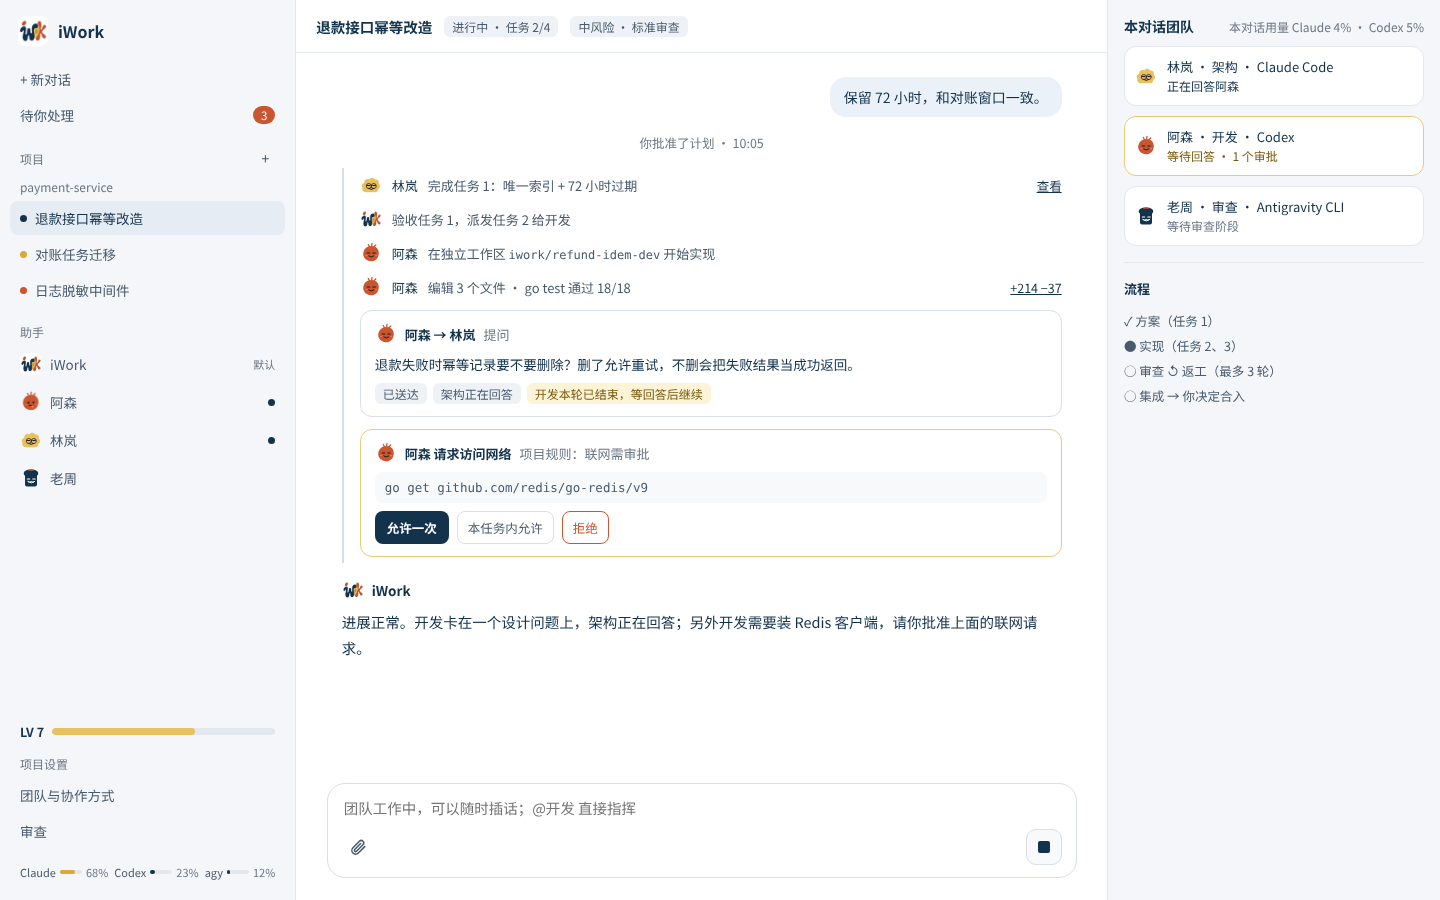
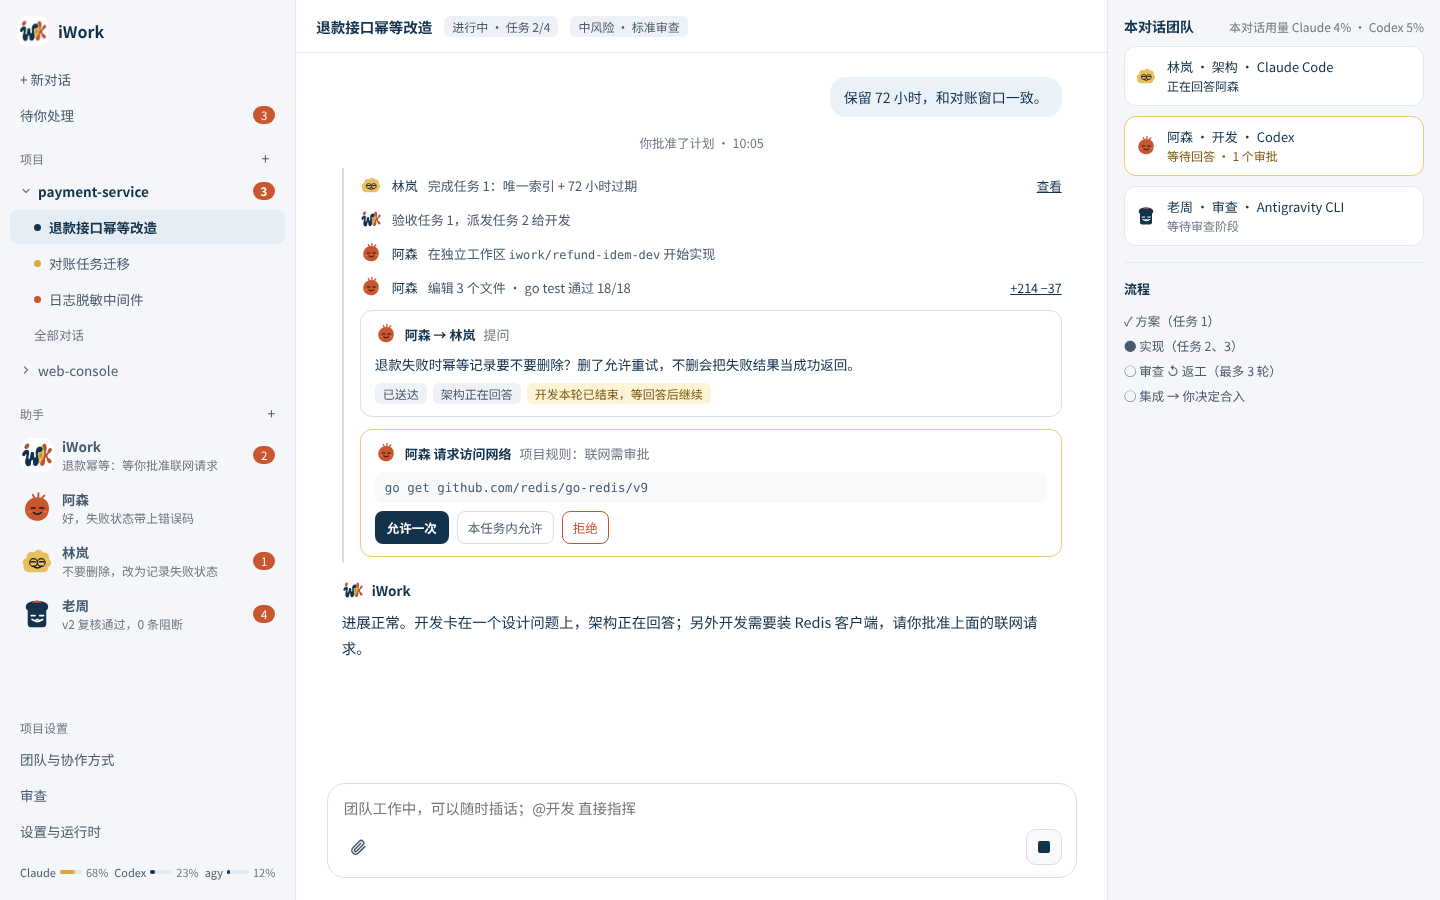
Design: commit design-window decisions and assets (ui-m1 2a items 1-13, anchors, sidebar 296px, sorry mood, M2 forward canvases)
Design-window edits that had been kept in the working tree: ui-m1.md section 2/2a
(through item 13), canvases ui/*.png including 16-Anchor-* and 17-Forward-* (M2),
design-system tokens (--sidebar-w 296px) and the new *-sorry.svg characters.
Committed by the supervisor at the product owner's request (2026-11-11).

Changed region(s): [[0.0, 0.1867, 0.1875, 0.7156], [0.0, 0.8089, 0.125, 0.9333], [0.1562, 0.1867, 0.1875, 0.2178]]

diff --git a/docs/design/design-system/tokens.css b/docs/design/design-system/tokens.css
@@ -194,7 +194,7 @@
   --shadow-tip: 0 12px 30px rgba(0,0,0,.18);
   --shadow-dialog: 0 20px 50px rgba(0,0,0,.2);
 
-  --sidebar-w: 264px;
+  --sidebar-w: 296px;     /* 侧栏外宽（含内边距与右边框，box-sizing: border-box），与画布截图一致 */
   --content-max: 720px;   /* 对话内容列 */
   --composer-max: 760px;  /* 输入框 */
 }

diff --git a/docs/design/ui-m1.md b/docs/design/ui-m1.md
@@ -9,7 +9,7 @@
 | 截图 | 页面 | M1 实现范围 |
 | --- | --- | --- |
 | `00-Onboarding.png` | 首次使用 / 设置与运行时 | 选项目、检测 Claude Code（路径、版本、登录状态）、确认默认运行时；Codex、agy 显示“M2 接入” |
-| `01-Main.png`、`01-Main-dark.png`、`01-Main-modelmenu.png` | 项目首页（新对话） | 全部：侧栏、输入框、附件、运行时与模型菜单（第 2 节第 14 条）；“团队 N”入口 M1 隐藏（单成员） |
+| `01-Main.png`、`01-Main-dark.png`、`01-Main-modelmenu.png`、`01-Main-convmenu.png` | 项目首页（新对话） | 全部：侧栏（第 2 节第 3 条，含对话右键菜单）、输入框、附件、运行时与模型菜单（第 2 节第 14 条）；“团队 N”入口 M1 隐藏（单成员） |
 | `02-Plan.png` | 分诊与计划卡片 | M1 不做（计划卡片移到 M2），只作视觉参考 |
 | `04-Member.png` | 对话中的流式输出、工具活动 | 对话主体的消息、工具活动折叠、Diff 摘要；成员切换不做 |
 | `07-AddProject.png`、`07-AddProject-new.png` | 添加项目 | 全部：本机文件夹、Git 克隆（含进度与失败重试）、新建项目（项目名 + 位置，默认 `~/iWork/projects/<名称>`，可更换）、拖入、未初始化提示与一键初始化、AGENTS.md 草稿卡片；全局设置里提供“项目位置”（默认父目录） |
@@ -18,15 +18,25 @@
 | `12-ImportLocal-first.png`、`12-ImportLocal-settings.png` | 本机导入（已确认） | 首次接入运行时的导入弹窗：按 MCP / 技能 / 插件分组勾选、需要密钥的 MCP 就地填写；设置 › 运行时 的“从本机导入”入口与已导入摘要 |
 | `13-AssistantConfig.png`、`13-AssistantConfig-new.png`、`13-AssistantConfig-menu.png` | 助手配置与新建（已确认） | 助手主页“配置”页：头像配色、名字、提示词、运行时 / 模型 / 思考强度、工具开关，修改即时自动保存；侧栏“助手 +”打开新建弹窗；右键助手弹出菜单（打开对话 / 配置 / 删除，iWork 无删除） |
 | `15-UserAction-pending.png`、`-done`、`-ignored`、`-credattach`、`-keyrefused`、`-dark` | 亲手执行卡片与凭据附件（已确认，画布第 14 页） | 全部：系统底线拦下时的亲手执行卡片（执行 / 复制命令 / 忽略，执行后显示退出码与只给你看的输出）、附加凭据文件的确认框、附加私钥被拒的提示 |
+| `16-Anchor-rest.png`、`16-Anchor-open.png`、`16-Anchor-open-dark.png` | 消息锚点（已确认，画布“消息锚点 · 滚轮形式”一行：W3 静止、W2 展开） | 全部：对话区左边距的静止态与刻度滚轮展开态、信息卡；交互见第 2a 节第 11 条 |
 | `09-Role.png` | 助手私聊 | 全部：连续长对话、项目选择器（M1 列出全部项目 + “私聊”，M2 起只列加入的项目）、切换分隔线、右侧资料（动态 / 记忆 / 配置；记忆 M1 只读展示；配置 M1 可编辑名字、头像、提示词、运行时、工具开关）、未读数 |
 
 `03-Board.png`（团队执行；其中的审批卡片与“本对话用量”标签是 M1 要做的，按下文第 2 节的规则更新选项）、`05-Review.png`（审查与合入）、`06-Ledger.png`（审查台账）、`08-Team.png`（团队与协作方式）属于 M2 以后，M1 只作视觉参考，不实现。
+
+**M2 预先定稿（M1 不实现）**：引用与转发（需求 FR03，v1.79；画布“引用与转发（M2）”一行与“消息操作 · 更沉浸的几种变体”中的 H1）。截图 `17-Forward-panel.png`（悬停时消息末尾淡入一行淡色图标：复制 / 引用 / 转发，无底框、无阴影、消息不加底色；点转发弹出转发面板）、`17-Forward-composer.png`（转发卡片先放进目标对话的输入框，补一句再发）、`17-Forward-sent-quote.png`（发出后的转发卡片；同一对话里的引用条与引用块）。
 
 ## 2 跨页面规则（已确认，实现时不得改动）
 
 1. 界面任何位置都不出现“主管”二字；对用户它叫 **iWork**，在助手列表里排第一并标“默认”。
 2. 角色在界面上统称“助手”；侧栏有“助手”分区，每个助手有名字与头像（字头像），点进去默认是与它的对话。
-3. 侧栏结构：iWork 标志 → “+ 新对话” → “待你处理”（计数）→ 项目分区（标题右侧图标按钮“+”添加项目；项目按最近活动排序，可置顶）→ 助手分区 → 底部固定：项目设置入口与本机额度一行。
+3. 侧栏结构（2026-11-10 统一，全部 M1 画板同一版；画布第 1–5、8–11、13、14 页）：iWork 标志 → “+ 新对话” → “待你处理”（计数）→ 项目分区 → 助手分区 → 底部固定：项目设置入口（团队与协作方式 / 审查 / 设置与运行时；M1 只显示“设置与运行时”，见 2a 第 4 条）与本机额度一行。
+   - **项目**：标题右侧图标按钮“+”添加项目。每个项目一行（展开箭头 + 项目名 + 未读数，未读数为该项目下全部对话之和），按最近活动排序，可置顶。当前项目默认展开，其余收起；点箭头可展开或收起任一项目，展开状态按项目记住。
+   - **项目下的对话**：展开后列出最近 5 个对话（状态圆点 + 标题，缩进一级），末尾一行“全部对话”打开该项目的完整对话列表。对话有成员子对话时（如“架构 / 开发 / 审查”），在当前对话下再缩进一级列出。
+   - **对话右键菜单**：打开 / 重命名 / 删除（删除见技术设计 9.0、T09 3g；重命名为就地编辑，见 9.0a、T09 3h）。见 `ui/01-Main-convmenu.png`。
+   - **对话标题**：项目对话取首条消息前 20 字（超出加“…”），发出首条前显示“新对话”，不用 AI 生成；重命名后不再自动变化。助手私聊标题为助手名，成员子对话为角色名，都不能重命名。
+   - **找不到路径的项目**：项目名划线，带“找不到路径”标签与“重新定位”（FR19，见画布第 9 页）。
+   - **助手**：每个助手两行：头像 + 名字，下面一行是它最近一条动态（截断），右侧未读数。右键菜单：打开对话 / 配置 / 删除（iWork 无删除，见第 13 页）。
+   - 侧栏数据来自“侧栏摘要”订阅（技术设计 3.5 节 Subscribe）：项目未读数、展开项目的最近对话、每个助手的最近动态与未读数。
 4. **未读数**只统计“发给用户的消息”和“待处理卡片”（审批、计划确认等）；打开对话即清零。侧栏以数字徽标显示。
 5. **本机额度**：侧栏底部一行，每个运行时一个“名称 + 细进度条 + 百分比”，悬停显示窗口类型与重置时间；取不到显示“—”。对话里另有“本对话用量”标签。
 6. **附件**：拖入（整块对话区显示虚线框“松开以添加”）、粘贴、回形针图标按钮三种入口；输入框上方显示缩略图或文件卡片，可移除；单个不超过 20MB，超限当场提示。仓库外文件标注“仓库外文件”。
@@ -47,6 +57,71 @@
 14. **运行时与模型**（需求 FR03、FR05，v1.49；画布第 1 页 Tweaks“运行时与模型菜单”、第 13 页）：所有对话的输入框工具栏显示“运行时 · 模型 ▾”（如“Claude Code · Opus ▾”）；菜单分三节：运行时（对话开始后置灰，悬停提示“要换运行时请开新对话”）、模型 · 仅本对话（可选列表 + “填写模型 ID…”）、思考强度（分段按钮，运行时不支持时整节不显示）。改选后对话中插入一行“已切换为 X”，不提示用量变化；“本对话用量”标签不显示模型。助手配置页与新建助手弹窗中，运行时 / 模型 / 思考强度为同一行三个下拉。
 15. **设置 › 记住的规则**（需求 FR11、v1.61；画布未画，按设置页现有样式做）：按“永久 / 本项目 / 本对话”分组列出；每行写明动作与范围（如“执行 `npm test …`”“写 `src/`”）、记在哪个助手或项目上、创建时间，右侧“撤销”图标按钮（悬停提示“撤销”）；撤销即时生效、无需确认；空列表显示“还没有记住的规则”。审批卡片“记住”下拉里写明将记住的范围（如“本项目内 `npm test …` 不再问”）。
 16. **设置 › 安全清单**（需求 FR11、v1.65）：需凭据的命令、敏感目录、可写目录三张清单的查看与增删。**界面形式待产品负责人定**（以后可能接入不同的界面）；定之前 T09 不实现这一页。能力本身在 M1 完整实现，经应用服务命令提供（技术设计 7.2c）。
+
+## 2a 设计决定（Claude 定，2026-11-10；产品负责人可推翻）
+
+以下是第 2 节没写到的界面细节，由设计窗口按现有规则补定（见 `AGENTS.md`“UI/UX 设计问题找设计窗口”）。和第 2 节冲突时以第 2 节为准。
+
+1. **对话状态圆点**（侧栏与“全部对话”列表共用；状态由 Rust 侧随侧栏摘要给出，网页层不自行判断）：
+   - 芥末黄 `--mus`：**等你处理**。有待审批、提问、亲手执行卡片，或回合已中断、等你选“继续 / 放弃”。
+   - 赭红 `--acc`：**出错**。最近一个回合失败，且没有等你处理的事。
+   - 藏青 `--brand`：**运行中**。有回合正在跑。圆点带轻微呼吸动画，系统开启“减少动态效果”或关闭轻松元素时不动。
+   - 灰 `--idle`：**空闲**。没有运行中的回合，也没有待处理的事。
+   - 同时满足多种时按 等你处理 > 出错 > 运行中 > 空闲 取一种。颜色不是唯一提示：悬停提示与 `aria-label` 写状态名（如“等你处理”）。
+   - 画布第 1 页的“日志脱敏中间件”（赭红）按“出错”理解，“登录页改版”（灰）是空闲。
+2. **助手行的“最近一条动态”**：按优先级取一条，跨这个助手参与的全部对话（私聊与项目对话）：
+   1. 有等你处理的事：`<对话标题>：<待处理摘要>`，如“退款幂等：等你批准联网请求”。私聊里的就不加对话标题。
+   2. 有回合在跑：`<对话标题>：工作中`，私聊里的写“工作中”。M1 不显示具体在做什么（风格样板页的“正在啃 handler.go”是远期参考）。
+   3. 都没有：它最近一条发给用户的消息的首行，项目对话里的加 `<对话标题>：` 前缀。
+   4. 从没说过话：不显示第二行。
+   - 摘要由 Rust 侧生成，单行截断。
+3. **助手行的未读数只算它的私聊**，项目对话的未读只算在项目行上，同一条未读不会两边各算一次。“最近一条动态”可以提到项目对话里的待处理事项，它是提示，不计数；全部待处理事项的总数看“待你处理”。
+4. **侧栏底部在 M1 只显示“设置与运行时”**：“团队与协作方式”“审查”属于 M2，M1 不显示，也不置灰；“项目设置”这个小标题也不显示。画布保留这两项，作 M2 参考。
+5. **全部对话**：
+   - 在主区域打开一个列表页，不在侧栏里展开。标题为“<项目名> · 全部对话”，侧栏不高亮任何对话。
+   - 每行显示状态圆点、标题、最近一条消息的首行、最近活动时间（今天的显示时刻，更早的显示日期）。
+   - 按最近活动倒序，顶部一个按标题筛选的输入框。
+   - 右键菜单与侧栏相同：打开 / 重命名 / 删除。
+   - 滚动到底自动加载下一批，每批 50 条（`ListConversations` 分页），不做页码。
+   - 没有对话时显示“还没有对话”，带“+ 新对话”按钮。画布未画，按设置页的列表样式做。
+6. **重命名就地编辑的边界**：
+   - 失去焦点按确认处理（与 Finder 一致）；此时内容为空则还原，不提交。
+   - 最多 50 个字符，到上限后不能再输入，不弹提示。输入法组字期间不截断，组字结束后再截。
+   - 去掉首尾空白后和原标题相同，就直接退出编辑，不发命令。
+   - Esc 取消，回车确认。
+7. **找不到路径的项目**：
+   - 项目行显示划线项目名、“找不到路径”标签与行内的“重新定位”文字按钮，见 `ui/07-AddProject.png` 侧栏。项目右键菜单里也有“重新定位”。
+   - 项目右键菜单：置顶 / 取消置顶、重新定位（只在找不到路径时出现）、从列表移除（FR19）。
+   - 展开后下面的对话可以打开、看历史。输入框禁用，上方显示一行说明“找不到项目文件夹，重新定位后才能继续”，带“重新定位”按钮。
+8. **运行时版本验证中或未通过**（T06 验收 8：状态栏不显示，只在运行时详情和诊断页标出）：只在输入框处说明，因为这里挡住了用户。
+   - **验证中**：发送按钮禁用，输入框上方一行“正在检查 Claude Code <版本> 能否安全使用…”，带小转圈。已输入的内容保留。验证通过后自动恢复可发送，不自动发出。
+   - **未通过**：发送按钮禁用，输入框上方一行警示色说明“Claude Code <版本> 没有通过安全检查，暂不能使用”，带“查看详情”链接，跳到设置 › 设置与运行时里该运行时的详情。
+   - 已经在跑的会话不受影响。
+9. **项目默认值没有界面入口**（产品负责人 2026-11-11 定，需求 v1.76）：默认审批档位、iWork 的运行时与模型、AI 审查开关与审查模型，M1 只经应用服务命令（T01 方案的 `UpdateProjectSettings`）提供修改能力，界面上不做入口：设置页没有项目一栏，侧栏底部和项目右键菜单都没有“项目设置”，输入框的档位菜单与模型菜单也不加“设为本项目默认”。这两个菜单仍然只改本对话。以后怎么改默认值不一定走界面入口，可能是问 AI 或让 AI 修改。
+10. **回合一开始就失败**（2026-11-11）：
+    - 运行时没能开始这一轮、助手消息内容为空时，不显示空的助手气泡。时间线里改成一行系统提示，赭红色警示图标加文字“这一轮没能开始：<原因>”，原因由 Rust 侧给出可读的说明；右侧“详情”展开后显示错误码与技术信息。
+    - 已经输出了部分内容再失败的，照常显示那条助手消息，末尾加一行“这一轮中途失败：<原因>”，同样带“详情”。
+    - 两种都不提供“重试”按钮（M1 没有重试命令），用户重新发消息即可。侧栏这个对话的圆点按“出错”显示（2a 第 1 条）。
+11. **消息锚点**（2026-11-11；样式由产品负责人从画布“消息锚点”几组里选定：滚轮 W3 静止 + W2 展开，W2 保持原设计，只有信息卡的内容参考 S3；细节由设计窗口补定。截图 `ui/16-Anchor-rest.png`、`ui/16-Anchor-open.png`、`ui/16-Anchor-open-dark.png`）：
+    - **位置**：对话区左边距，上下居中。对话不用滚动就能看完时不显示。
+    - **锚点**：你的每条消息、等你处理的卡片、失败的回合。钉住的消息以后与“对话锚点”（上下文压缩）一起做，M1 不做。
+    - **静止态**：三条短线表示当前位置。下面按需显示状态点：芥末黄表示本对话里还有等你处理的事，赭红表示有失败的回合，没有就不显示。
+    - **展开态**：鼠标移到左边距（或键盘焦点到达）时展开成刻度滚轮。
+      - 以当前位置为中心，上下最多各 4 条刻度，越靠中间越长、越远越淡。失败、等你处理用对应颜色。
+      - 中间那条旁边是信息卡，样式同画布“锚点样式 S3”的预览卡：左上类型标签（你 / 等你处理 / 失败），右上时间（今天显示时刻，更早显示日期），下面是消息前两行，超出省略；卡片左侧有小三角指向中间刻度。
+      - 只有刻度和信息卡：没有上下箭头按钮，也不显示“第几处 / 共几处”，纯滚轮操作。
+    - **交互**（翻看方式由产品负责人 2026-11-11 选定：只看预览，点了才跳）：
+      - 展开时停在当前屏幕位置对应的那一处。
+      - 在刻度上滚动鼠标滚轮，每格换一处：刻度滑动一格（约 120ms），信息卡内容淡入换成新的一处。翻看过程中对话停在原地不动。
+      - 触控板滑动要累计到一定距离才换一处；快速甩动时每秒最多换约 10 处。到第一处或最后一处时轻轻回弹并停住，不循环。
+      - 点中间那条或信息卡：跳到那条消息，高亮 1 秒，滚轮收起。点其他刻度：直接跳过去。
+      - Esc 立即收起，对话不动；鼠标移开 300ms 后收起，对话也不动。
+      - ⌥↑ / ⌥↓ 不经滚轮，直接逐处跳转对话。
+      - 不展开时，当前位置跟随对话滚动。
+      - 系统开启“减少动态效果”时，去掉滑动和淡入动画。
+    - **数据**：锚点列表由 Rust 侧随视图给出，包括消息编号、类型、时间与消息前两行，网页层不自行计算。跳到还没加载的旧消息时，需要能“以某条消息为中心加载一段”，由 T09 的时间线分页提供。
+12. **侧栏宽度**（2026-11-11）：外宽 **296px**（含左右内边距与右边框，按 `box-sizing: border-box` 计），以画布截图为准。画布源码里写的 `flex: 0 0 264px` 是内容宽，加上内边距与边框后实际渲染为 296px；`design-system/tokens.css` 的 `--sidebar-w` 已同步改为 296px。M1 不可拖动调宽。
+13. **助手出错时的表情**（产品负责人 2026-11-11 从画布“助手出错表情”三种里选定 B“做错事”）：新增状态 `sorry`，素材 `design-system/characters/*-sorry.svg`（四个角色各一个）：眼睛往下瞟、尴尬地抿嘴、头顶冒一滴汗。最近一个回合失败、且没有等你处理的事时显示；用户再发消息、新回合开始后换回对应状态。不浮动、不弹跳；**不用 `angry`**（那是连戳三下的玩笑）。和其他表情一样随状态变化，关闭“轻松元素”时也照样显示。出错的其他提示不变：侧栏对话圆点为赭红（2a 第 1 条），时间线里一行“这一轮没能开始 / 中途失败：<原因>”（2a 第 10 条）。
 
 ## 3 视觉风格（2026-11-08 定稿：底色 1）
 
@@ -78,7 +153,7 @@
 ### 3.3 助手形象
 
 - 每个助手是一个简笔小人，形状各不相同（阿森：歪蛋形 + 三根呆毛；林岚：云朵 + 圆眼镜；老周：吐司 + 小帽 + 八字胡；新建助手默认圆团子，颜色可在配置里选）。用矢量绘制，颜色取 `--ch*`，深浅色自动切换。
-- 表情随状态变化：空闲（眯眼微笑）、工作中（专注吐舌 + 轻微上下浮动摇摆）、等你（头顶“?”）、完成（弯眼大笑 + 星星，出现时弹一下）。
+- 表情随状态变化：空闲（眯眼微笑）、工作中（专注吐舌 + 轻微上下浮动摇摆）、等你（头顶“?”）、完成（弯眼大笑 + 星星，出现时弹一下）、出错（眼睛往下瞟、尴尬抿嘴、头顶一滴汗，见 2a 第 13 条）。
 - 鼠标悬停：蹦一下、歪身、换成眨眼笑，头顶冒“嗨”。
 - 点击（戳一下）：跳得比悬停更高。2 秒内连续戳 3 次：假装生气约 1.5 秒（鼓腮、皱眉、脸颊变红），之后恢复原状态。戳头像不触发打开对话以外的任何业务操作。
 - **眼睛跟随鼠标（只限侧栏头像）**：鼠标在侧栏范围内移动时，侧栏每个助手的眼珠朝鼠标方向偏移（最多 1.5px），用来直观看出指向了谁；鼠标离开侧栏后回正。实现要求：只监听侧栏的 pointermove，每帧最多计算一次（requestAnimationFrame 合并），只改 transform；窗口失去焦点、系统“减少动态效果”时停用。对话区与其他位置的头像不跟随。
@@ -92,4 +167,4 @@
   - 3.3 节的头像表情与互动；
   - 口语化文案，如“阿森正在啃 handler.go”“跟阿森说点什么”，但不额外加字；
   - “搞定”印章：一轮回复正常结束而且产生了改动时，盖在改动摘要卡片上（斜体）。由后台服务判断后下发，网页层不自行判断（技术设计 9.7）。
-- **暂不做**（产品负责人 2026-11-09 决定，核心功能完成后再考虑）：经验条“LV N”、成就卡（如“+50 XP”）、昨天的小队小结。画布侧栏底部的“LV 7”和定稿页的成就卡只作远期参考，M1 侧栏不渲染这一行。
+- **暂不做**（产品负责人 2026-11-09 决定，核心功能完成后再考虑）：经验条“LV N”、成就卡（如“+50 XP”）、昨天的小队小结。“LV 7”与成就卡只留在风格样板页作远期参考；M1 画板的侧栏已去掉这一行。
